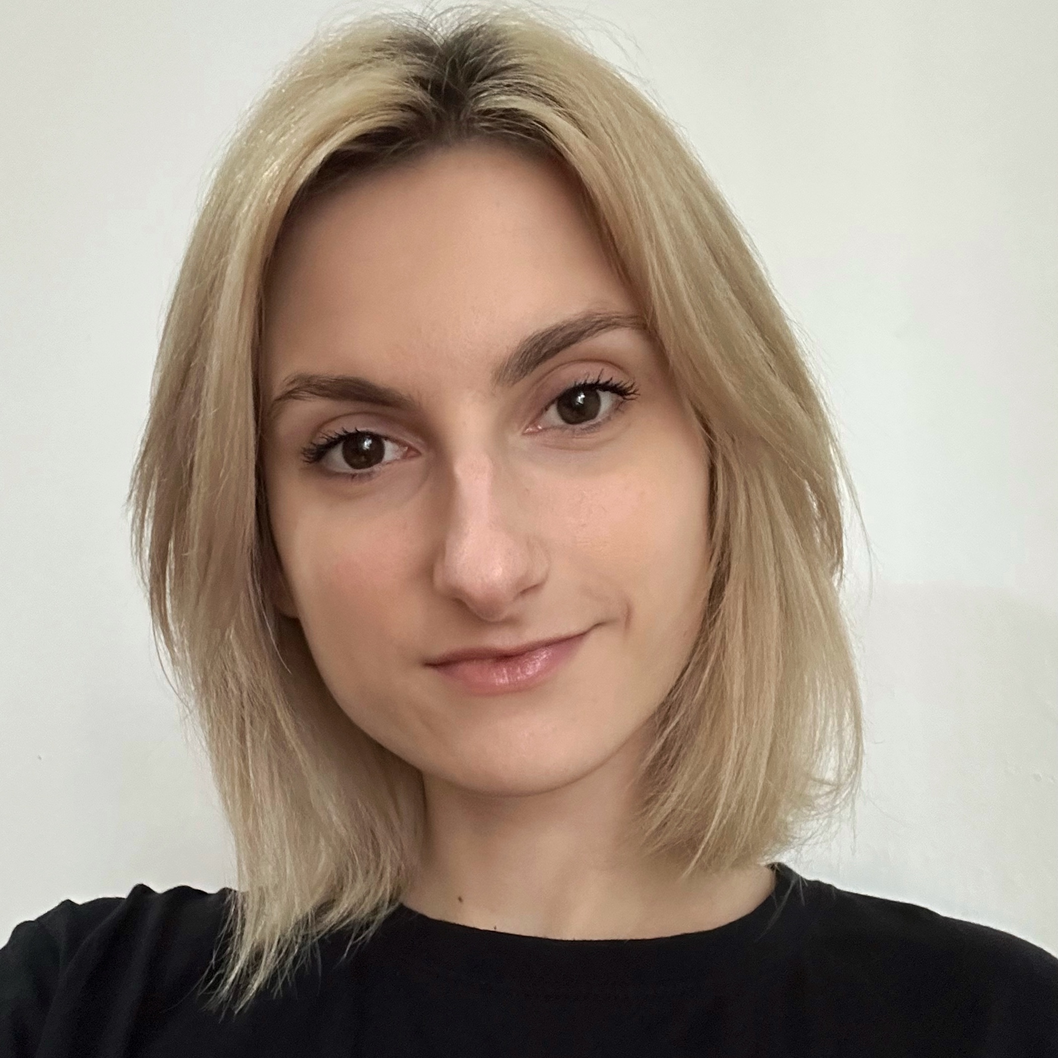
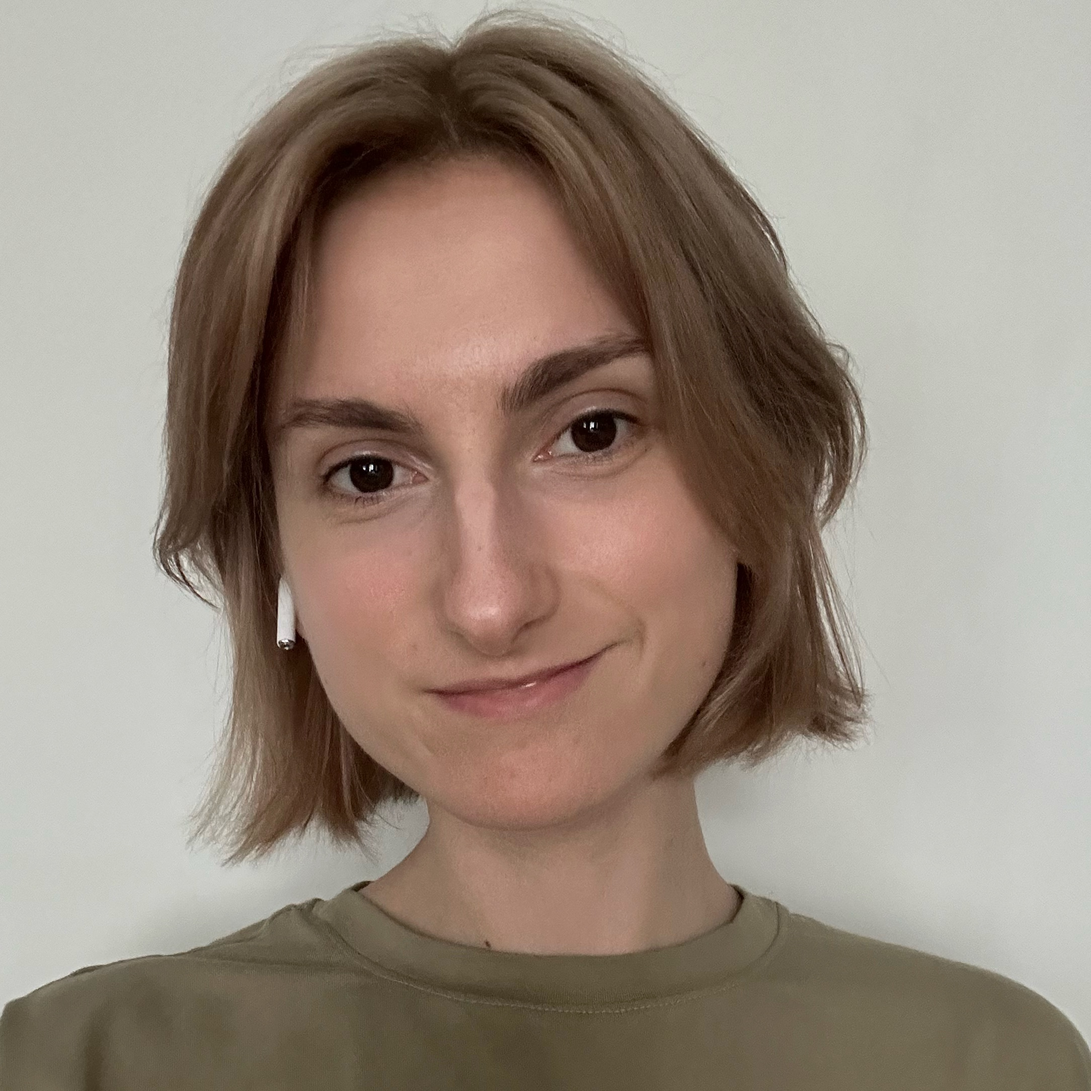
New photo and link

diff --git a/src/components/PortfolioItem/PortfolioItem.scss b/src/components/PortfolioItem/PortfolioItem.scss
@@ -14,23 +14,25 @@
   align-items: flex-end;
   padding-top: 4em;
   min-height: 320px;
+  // background-color: #b3b3b3;
 }
 
 .portfolio__photos_blue {
-  background-color: #698299;
+  background-color: #6982995F;
 }
 
 .portfolio__photos_green {
-  background-color: #95b1ae;
+  background-color: #95b1ae5F;
 }
 
 .portfolio__photos_purple {
-  background-color: #b1a1b4;
+  background-color: #b1a1b45F;
 }
 
 .portfolio__photos_orange {
-  background-color:#d6aa80;
+  background-color:#d6aa805F;
 }
+
 // #E88A01
 .portfolio__desktopWrapper {
   vertical-align: top;

diff --git a/src/components/Profile/Profile.tsx b/src/components/Profile/Profile.tsx
@@ -15,7 +15,7 @@ export function Profile() {
             className="profile__button"
             target="_blank"
             rel="noopener noreferrer"
-            href="https://drive.google.com/file/d/1tzVyyqxNBpPaPcjgJxg78ye_Lbca3XEX/view">
+            href="https://drive.google.com/file/d/1TzM3BzhcPlvc6iQ1DyznSnmTSFDZqRtD/view">
             Скачать резюме
           </a>
         </div>
